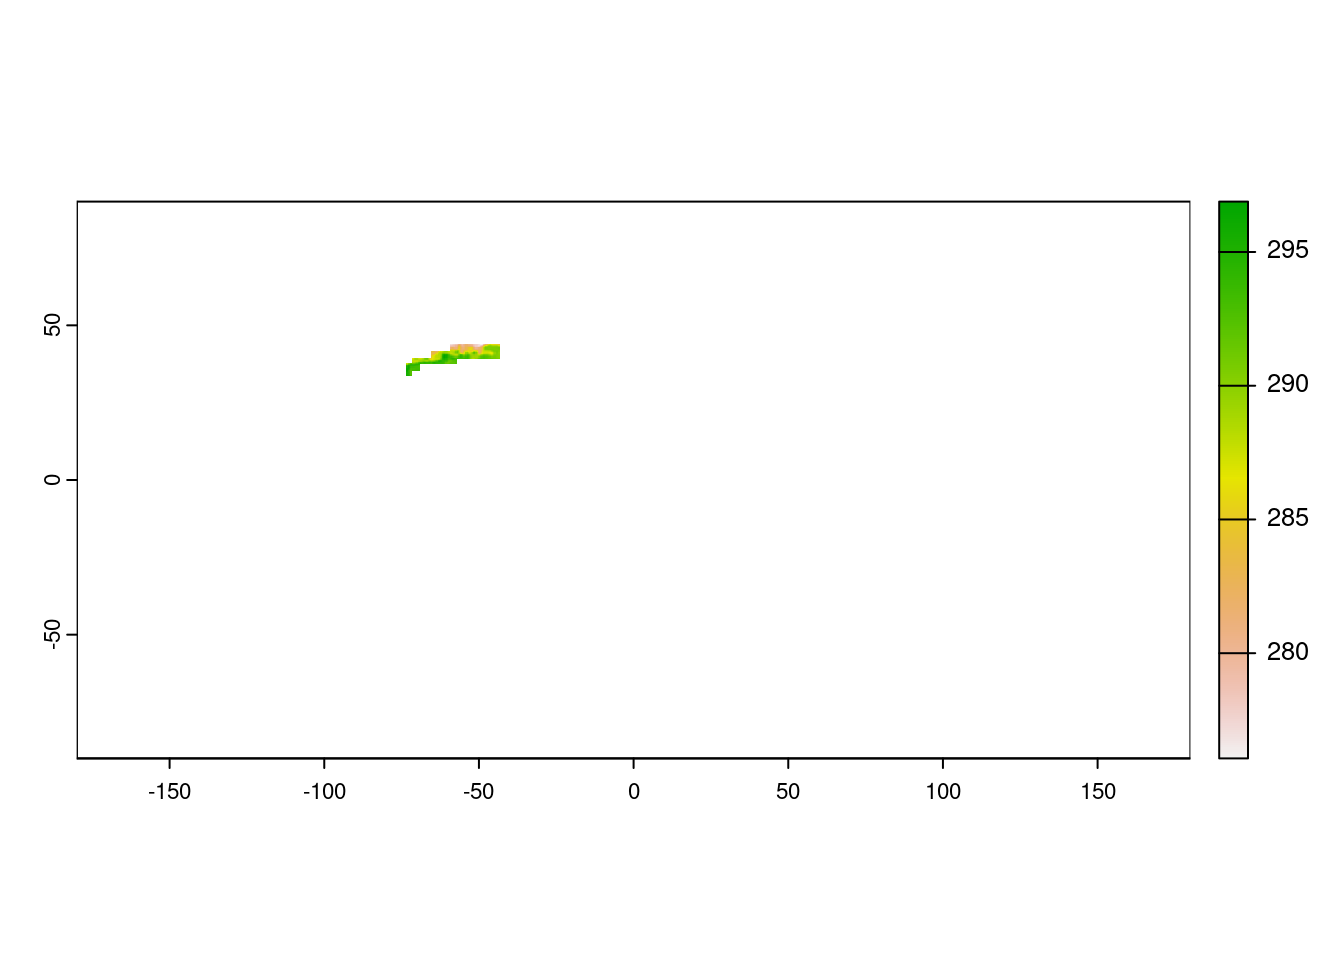
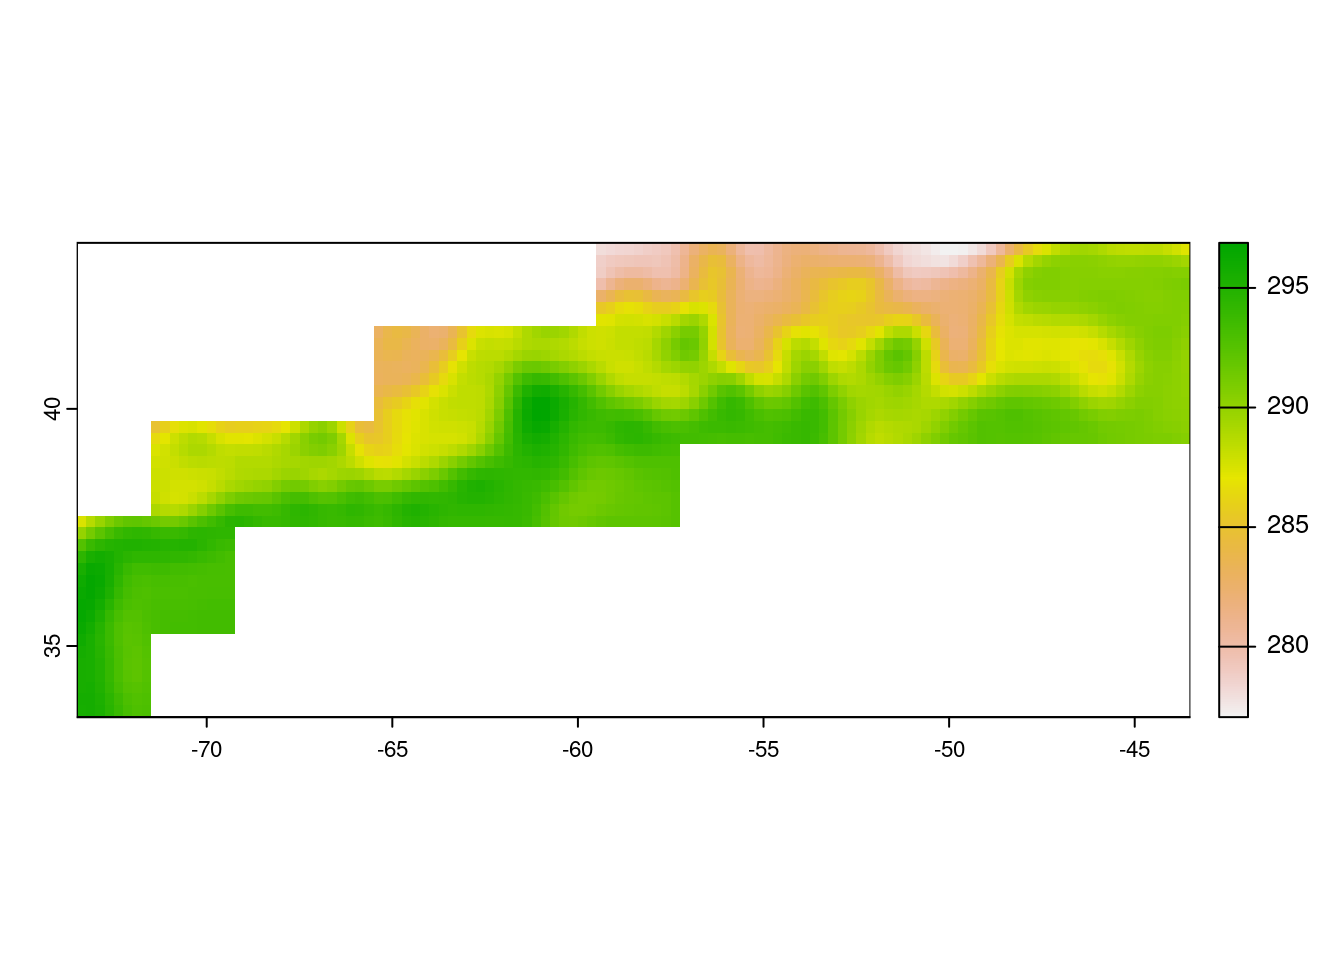
change the order to reduce the memory usage

diff --git a/docs/tutorials/r/3-extract-satellite-data-within-boundary.html b/docs/tutorials/r/3-extract-satellite-data-within-boundary.html
@@ -555,17 +555,19 @@ For this exercise, we will only use the boundary of one province, the Gulf Strea
 <span id="cb8-2"><a href="#cb8-2" aria-hidden="true" tabindex="-1"></a>ras <span class="ot">&lt;-</span> terra<span class="sc">::</span><span class="fu">rast</span>(results[<span class="dv">1</span>], <span class="at">vsi =</span> <span class="cn">TRUE</span>)</span>
 <span id="cb8-3"><a href="#cb8-3" aria-hidden="true" tabindex="-1"></a></span>
 <span id="cb8-4"><a href="#cb8-4" aria-hidden="true" tabindex="-1"></a><span class="co"># Extract SST from the multi-layer raster data</span></span>
-<span id="cb8-5"><a href="#cb8-5" aria-hidden="true" tabindex="-1"></a>ras_sst <span class="ot">&lt;-</span> ras[[<span class="st">"analysed_sst"</span>]]</span>
-<span id="cb8-6"><a href="#cb8-6" aria-hidden="true" tabindex="-1"></a></span>
-<span id="cb8-7"><a href="#cb8-7" aria-hidden="true" tabindex="-1"></a><span class="co"># Vectorize shapes</span></span>
-<span id="cb8-8"><a href="#cb8-8" aria-hidden="true" tabindex="-1"></a>shp <span class="ot">&lt;-</span> <span class="fu">vect</span>(shapes)</span>
-<span id="cb8-9"><a href="#cb8-9" aria-hidden="true" tabindex="-1"></a></span>
-<span id="cb8-10"><a href="#cb8-10" aria-hidden="true" tabindex="-1"></a><span class="co"># Get boundaries for GFST</span></span>
-<span id="cb8-11"><a href="#cb8-11" aria-hidden="true" tabindex="-1"></a>GFST <span class="ot">&lt;-</span> shp[shp<span class="sc">$</span>ProvCode <span class="sc">==</span> <span class="st">"GFST"</span>,]</span></code><button title="Copy to Clipboard" class="code-copy-button"><i class="bi"></i></button></pre></div>
+<span id="cb8-5"><a href="#cb8-5" aria-hidden="true" tabindex="-1"></a>ras_sst <span class="ot">&lt;-</span> ras[[<span class="st">"analysed_sst"</span>]]</span></code><button title="Copy to Clipboard" class="code-copy-button"><i class="bi"></i></button></pre></div>
+</div>
+<p>Convert shape to SpatVector.</p>
+<div class="cell">
+<div class="sourceCode cell-code" id="cb9"><pre class="sourceCode r code-with-copy"><code class="sourceCode r"><span id="cb9-1"><a href="#cb9-1" aria-hidden="true" tabindex="-1"></a><span class="co"># Vectorize shapes</span></span>
+<span id="cb9-2"><a href="#cb9-2" aria-hidden="true" tabindex="-1"></a>shp <span class="ot">&lt;-</span> terra<span class="sc">::</span><span class="fu">vect</span>(shapes)</span>
+<span id="cb9-3"><a href="#cb9-3" aria-hidden="true" tabindex="-1"></a></span>
+<span id="cb9-4"><a href="#cb9-4" aria-hidden="true" tabindex="-1"></a><span class="co"># Get boundaries for GFST</span></span>
+<span id="cb9-5"><a href="#cb9-5" aria-hidden="true" tabindex="-1"></a>GFST <span class="ot">&lt;-</span> shp[shp<span class="sc">$</span>ProvCode <span class="sc">==</span> <span class="st">"GFST"</span>,]</span></code><button title="Copy to Clipboard" class="code-copy-button"><i class="bi"></i></button></pre></div>
 </div>
 <p>Plot the SST data.</p>
 <div class="cell">
-<div class="sourceCode cell-code" id="cb9"><pre class="sourceCode r code-with-copy"><code class="sourceCode r"><span id="cb9-1"><a href="#cb9-1" aria-hidden="true" tabindex="-1"></a><span class="fu">plot</span>(ras_sst)</span></code><button title="Copy to Clipboard" class="code-copy-button"><i class="bi"></i></button></pre></div>
+<div class="sourceCode cell-code" id="cb10"><pre class="sourceCode r code-with-copy"><code class="sourceCode r"><span id="cb10-1"><a href="#cb10-1" aria-hidden="true" tabindex="-1"></a><span class="fu">plot</span>(ras_sst)</span></code><button title="Copy to Clipboard" class="code-copy-button"><i class="bi"></i></button></pre></div>
 <div class="cell-output-display">
 <div>
 <figure class="figure">
@@ -576,7 +578,7 @@ For this exercise, we will only use the boundary of one province, the Gulf Strea
 </div>
 <p>Plot GFST boundaries from shapefile.</p>
 <div class="cell">
-<div class="sourceCode cell-code" id="cb10"><pre class="sourceCode r code-with-copy"><code class="sourceCode r"><span id="cb10-1"><a href="#cb10-1" aria-hidden="true" tabindex="-1"></a><span class="fu">plot</span>(GFST,<span class="at">col=</span><span class="st">'red'</span>)</span></code><button title="Copy to Clipboard" class="code-copy-button"><i class="bi"></i></button></pre></div>
+<div class="sourceCode cell-code" id="cb11"><pre class="sourceCode r code-with-copy"><code class="sourceCode r"><span id="cb11-1"><a href="#cb11-1" aria-hidden="true" tabindex="-1"></a><span class="fu">plot</span>(GFST,<span class="at">col=</span><span class="st">'red'</span>)</span></code><button title="Copy to Clipboard" class="code-copy-button"><i class="bi"></i></button></pre></div>
 <div class="cell-output-display">
 <div>
 <figure class="figure">
@@ -587,10 +589,10 @@ For this exercise, we will only use the boundary of one province, the Gulf Strea
 </div>
 <p>Mask SST with the GFST boundaries and plot.</p>
 <div class="cell">
-<div class="sourceCode cell-code" id="cb11"><pre class="sourceCode r code-with-copy"><code class="sourceCode r"><span id="cb11-1"><a href="#cb11-1" aria-hidden="true" tabindex="-1"></a>masked_rc <span class="ot">&lt;-</span> <span class="fu">mask</span>(ras_sst, GFST)</span>
-<span id="cb11-2"><a href="#cb11-2" aria-hidden="true" tabindex="-1"></a></span>
-<span id="cb11-3"><a href="#cb11-3" aria-hidden="true" tabindex="-1"></a><span class="co"># Visualize the SST in GFST Province and crop to the GFST extent</span></span>
-<span id="cb11-4"><a href="#cb11-4" aria-hidden="true" tabindex="-1"></a><span class="fu">plot</span>(masked_rc, <span class="at">ext =</span> GFST)</span></code><button title="Copy to Clipboard" class="code-copy-button"><i class="bi"></i></button></pre></div>
+<div class="sourceCode cell-code" id="cb12"><pre class="sourceCode r code-with-copy"><code class="sourceCode r"><span id="cb12-1"><a href="#cb12-1" aria-hidden="true" tabindex="-1"></a>masked_rc <span class="ot">&lt;-</span> <span class="fu">mask</span>(ras_sst, GFST)</span>
+<span id="cb12-2"><a href="#cb12-2" aria-hidden="true" tabindex="-1"></a></span>
+<span id="cb12-3"><a href="#cb12-3" aria-hidden="true" tabindex="-1"></a><span class="co"># Visualize the SST in GFST Province and crop to the GFST extent</span></span>
+<span id="cb12-4"><a href="#cb12-4" aria-hidden="true" tabindex="-1"></a><span class="fu">plot</span>(masked_rc, <span class="at">ext =</span> GFST)</span></code><button title="Copy to Clipboard" class="code-copy-button"><i class="bi"></i></button></pre></div>
 <div class="cell-output-display">
 <div>
 <figure class="figure">
@@ -605,23 +607,30 @@ For this exercise, we will only use the boundary of one province, the Gulf Strea
 <p>We will construct a data cube to compute monthly average for sea surface temperature data within the boundary. To minimize data loading times, the first 10 results, which correspond to approximately two months of data, will be used for this exercise.</p>
 <p>Select the first 10 SST results (end of January and beginning of February).</p>
 <div class="cell">
-<div class="sourceCode cell-code" id="cb12"><pre class="sourceCode r code-with-copy"><code class="sourceCode r"><span id="cb12-1"><a href="#cb12-1" aria-hidden="true" tabindex="-1"></a>ras_all <span class="ot">&lt;-</span> terra<span class="sc">::</span><span class="fu">rast</span>(results[<span class="fu">c</span>(<span class="dv">25</span><span class="sc">:</span><span class="dv">35</span>)], <span class="at">vsi =</span> <span class="cn">TRUE</span>)</span></code><button title="Copy to Clipboard" class="code-copy-button"><i class="bi"></i></button></pre></div>
+<div class="sourceCode cell-code" id="cb13"><pre class="sourceCode r code-with-copy"><code class="sourceCode r"><span id="cb13-1"><a href="#cb13-1" aria-hidden="true" tabindex="-1"></a>ras_all <span class="ot">&lt;-</span> terra<span class="sc">::</span><span class="fu">rast</span>(results[<span class="fu">c</span>(<span class="dv">25</span><span class="sc">:</span><span class="dv">35</span>)], <span class="at">vsi =</span> <span class="cn">TRUE</span>)</span></code><button title="Copy to Clipboard" class="code-copy-button"><i class="bi"></i></button></pre></div>
+</div>
+<p>Select SST data. The trim and mask operations are memory intensive and we want to select only the layer we will be working with.</p>
+<div class="cell">
+<div class="sourceCode cell-code" id="cb14"><pre class="sourceCode r code-with-copy"><code class="sourceCode r"><span id="cb14-1"><a href="#cb14-1" aria-hidden="true" tabindex="-1"></a>rc_sst <span class="ot">&lt;-</span> ras_all[<span class="st">"analysed_sst"</span>,]</span></code><button title="Copy to Clipboard" class="code-copy-button"><i class="bi"></i></button></pre></div>
+</div>
+<p>Crop to the GFST boundaries.</p>
+<div class="cell">
+<div class="sourceCode cell-code" id="cb15"><pre class="sourceCode r code-with-copy"><code class="sourceCode r"><span id="cb15-1"><a href="#cb15-1" aria-hidden="true" tabindex="-1"></a>rc_sst <span class="ot">&lt;-</span> terra<span class="sc">::</span><span class="fu">crop</span>(rc_sst, GFST)</span></code><button title="Copy to Clipboard" class="code-copy-button"><i class="bi"></i></button></pre></div>
 </div>
 <p>Trim the SST data to the boundaries of GFST.</p>
 <div class="cell">
-<div class="sourceCode cell-code" id="cb13"><pre class="sourceCode r code-with-copy"><code class="sourceCode r"><span id="cb13-1"><a href="#cb13-1" aria-hidden="true" tabindex="-1"></a>rc_all <span class="ot">&lt;-</span> terra<span class="sc">::</span><span class="fu">mask</span>(ras_all, GFST)</span></code><button title="Copy to Clipboard" class="code-copy-button"><i class="bi"></i></button></pre></div>
-</div>
-<p>Select SST data.</p>
-<div class="cell">
-<div class="sourceCode cell-code" id="cb14"><pre class="sourceCode r code-with-copy"><code class="sourceCode r"><span id="cb14-1"><a href="#cb14-1" aria-hidden="true" tabindex="-1"></a>rc_sst <span class="ot">&lt;-</span> rc_all[<span class="st">"analysed_sst"</span>, ]</span></code><button title="Copy to Clipboard" class="code-copy-button"><i class="bi"></i></button></pre></div>
+<div class="sourceCode cell-code" id="cb16"><pre class="sourceCode r code-with-copy"><code class="sourceCode r"><span id="cb16-1"><a href="#cb16-1" aria-hidden="true" tabindex="-1"></a>rc_sst <span class="ot">&lt;-</span> terra<span class="sc">::</span><span class="fu">mask</span>(rc_sst, GFST)</span></code><button title="Copy to Clipboard" class="code-copy-button"><i class="bi"></i></button></pre></div>
 </div>
 <p>Calculate mean SST over the entire time series and map it</p>
 <div class="cell">
-<div class="sourceCode cell-code" id="cb15"><pre class="sourceCode r code-with-copy"><code class="sourceCode r"><span id="cb15-1"><a href="#cb15-1" aria-hidden="true" tabindex="-1"></a><span class="co"># Compute mean over 12 time layers</span></span>
-<span id="cb15-2"><a href="#cb15-2" aria-hidden="true" tabindex="-1"></a>raster_mean <span class="ot">&lt;-</span> terra<span class="sc">::</span><span class="fu">mean</span>(rc_sst, <span class="at">na.rm=</span><span class="cn">TRUE</span>)</span>
-<span id="cb15-3"><a href="#cb15-3" aria-hidden="true" tabindex="-1"></a></span>
-<span id="cb15-4"><a href="#cb15-4" aria-hidden="true" tabindex="-1"></a><span class="co"># Map mean SST </span></span>
-<span id="cb15-5"><a href="#cb15-5" aria-hidden="true" tabindex="-1"></a><span class="fu">plot</span>(raster_mean)</span></code><button title="Copy to Clipboard" class="code-copy-button"><i class="bi"></i></button></pre></div>
+<div class="sourceCode cell-code" id="cb17"><pre class="sourceCode r code-with-copy"><code class="sourceCode r"><span id="cb17-1"><a href="#cb17-1" aria-hidden="true" tabindex="-1"></a><span class="co"># Compute mean over 12 time layers</span></span>
+<span id="cb17-2"><a href="#cb17-2" aria-hidden="true" tabindex="-1"></a>raster_mean <span class="ot">&lt;-</span> terra<span class="sc">::</span><span class="fu">mean</span>(rc_sst, <span class="at">na.rm=</span><span class="cn">TRUE</span>)</span>
+<span id="cb17-3"><a href="#cb17-3" aria-hidden="true" tabindex="-1"></a></span>
+<span id="cb17-4"><a href="#cb17-4" aria-hidden="true" tabindex="-1"></a><span class="co"># Map mean SST </span></span>
+<span id="cb17-5"><a href="#cb17-5" aria-hidden="true" tabindex="-1"></a><span class="fu">plot</span>(raster_mean)</span>
+<span id="cb17-6"><a href="#cb17-6" aria-hidden="true" tabindex="-1"></a></span>
+<span id="cb17-7"><a href="#cb17-7" aria-hidden="true" tabindex="-1"></a><span class="co"># Map only the GFST area</span></span>
+<span id="cb17-8"><a href="#cb17-8" aria-hidden="true" tabindex="-1"></a><span class="fu">plot</span>(terra<span class="sc">::</span><span class="fu">crop</span>(raster_mean, GFST))</span></code><button title="Copy to Clipboard" class="code-copy-button"><i class="bi"></i></button></pre></div>
 <div class="cell-output-display">
 <div>
 <figure class="figure">
@@ -629,51 +638,42 @@ For this exercise, we will only use the boundary of one province, the Gulf Strea
 </figure>
 </div>
 </div>
-<div class="sourceCode cell-code" id="cb16"><pre class="sourceCode r code-with-copy"><code class="sourceCode r"><span id="cb16-1"><a href="#cb16-1" aria-hidden="true" tabindex="-1"></a><span class="co"># Map only the GFST area</span></span>
-<span id="cb16-2"><a href="#cb16-2" aria-hidden="true" tabindex="-1"></a><span class="fu">plot</span>(terra<span class="sc">::</span><span class="fu">crop</span>(raster_mean, GFST))</span></code><button title="Copy to Clipboard" class="code-copy-button"><i class="bi"></i></button></pre></div>
-<div class="cell-output-display">
-<div>
-<figure class="figure">
-<p><img src="3-extract-satellite-data-within-boundary_files/figure-html/get_means-2.png" class="img-fluid figure-img" width="672"></p>
-</figure>
-</div>
-</div>
 </div>
 <p>Calculate monthly mean SST means across raster (lat, lon).</p>
 <div class="cell">
-<div class="sourceCode cell-code" id="cb17"><pre class="sourceCode r code-with-copy"><code class="sourceCode r"><span id="cb17-1"><a href="#cb17-1" aria-hidden="true" tabindex="-1"></a><span class="co"># Function to convert times to year-month format</span></span>
-<span id="cb17-2"><a href="#cb17-2" aria-hidden="true" tabindex="-1"></a>year_month <span class="ot">&lt;-</span> <span class="cf">function</span>(x) {</span>
-<span id="cb17-3"><a href="#cb17-3" aria-hidden="true" tabindex="-1"></a>  <span class="fu">format</span>(<span class="fu">as.Date</span>(<span class="fu">time</span>(x), <span class="at">format=</span><span class="st">"%Y-%m-%d"</span>), <span class="st">"%Y-%m"</span>)</span>
-<span id="cb17-4"><a href="#cb17-4" aria-hidden="true" tabindex="-1"></a>}</span>
-<span id="cb17-5"><a href="#cb17-5" aria-hidden="true" tabindex="-1"></a></span>
-<span id="cb17-6"><a href="#cb17-6" aria-hidden="true" tabindex="-1"></a><span class="co"># Format time to Year-month for monthly aggregation </span></span>
-<span id="cb17-7"><a href="#cb17-7" aria-hidden="true" tabindex="-1"></a>ym <span class="ot">&lt;-</span> <span class="fu">year_month</span>(rc_sst)</span>
-<span id="cb17-8"><a href="#cb17-8" aria-hidden="true" tabindex="-1"></a></span>
-<span id="cb17-9"><a href="#cb17-9" aria-hidden="true" tabindex="-1"></a><span class="co"># Compute raster mean grouped by Year-month</span></span>
-<span id="cb17-10"><a href="#cb17-10" aria-hidden="true" tabindex="-1"></a>monthly_mean_rast <span class="ot">&lt;-</span> terra<span class="sc">::</span><span class="fu">tapp</span>(rc_sst, ym, <span class="at">fun =</span> mean)</span>
-<span id="cb17-11"><a href="#cb17-11" aria-hidden="true" tabindex="-1"></a></span>
-<span id="cb17-12"><a href="#cb17-12" aria-hidden="true" tabindex="-1"></a><span class="co"># Compute mean across raster grouped by Year-month</span></span>
-<span id="cb17-13"><a href="#cb17-13" aria-hidden="true" tabindex="-1"></a>monthly_means <span class="ot">&lt;-</span> terra<span class="sc">::</span><span class="fu">global</span>(monthly_mean_rast, <span class="at">fun =</span> mean, <span class="at">na.rm=</span><span class="cn">TRUE</span>)</span></code><button title="Copy to Clipboard" class="code-copy-button"><i class="bi"></i></button></pre></div>
+<div class="sourceCode cell-code" id="cb18"><pre class="sourceCode r code-with-copy"><code class="sourceCode r"><span id="cb18-1"><a href="#cb18-1" aria-hidden="true" tabindex="-1"></a><span class="co"># Function to convert times to year-month format</span></span>
+<span id="cb18-2"><a href="#cb18-2" aria-hidden="true" tabindex="-1"></a>year_month <span class="ot">&lt;-</span> <span class="cf">function</span>(x) {</span>
+<span id="cb18-3"><a href="#cb18-3" aria-hidden="true" tabindex="-1"></a>  <span class="fu">format</span>(<span class="fu">as.Date</span>(<span class="fu">time</span>(x), <span class="at">format=</span><span class="st">"%Y-%m-%d"</span>), <span class="st">"%Y-%m"</span>)</span>
+<span id="cb18-4"><a href="#cb18-4" aria-hidden="true" tabindex="-1"></a>}</span>
+<span id="cb18-5"><a href="#cb18-5" aria-hidden="true" tabindex="-1"></a></span>
+<span id="cb18-6"><a href="#cb18-6" aria-hidden="true" tabindex="-1"></a><span class="co"># Format time to Year-month for monthly aggregation </span></span>
+<span id="cb18-7"><a href="#cb18-7" aria-hidden="true" tabindex="-1"></a>ym <span class="ot">&lt;-</span> <span class="fu">year_month</span>(rc_sst)</span>
+<span id="cb18-8"><a href="#cb18-8" aria-hidden="true" tabindex="-1"></a></span>
+<span id="cb18-9"><a href="#cb18-9" aria-hidden="true" tabindex="-1"></a><span class="co"># Compute raster mean grouped by Year-month</span></span>
+<span id="cb18-10"><a href="#cb18-10" aria-hidden="true" tabindex="-1"></a>monthly_mean_rast <span class="ot">&lt;-</span> terra<span class="sc">::</span><span class="fu">tapp</span>(rc_sst, ym, <span class="at">fun =</span> mean)</span>
+<span id="cb18-11"><a href="#cb18-11" aria-hidden="true" tabindex="-1"></a></span>
+<span id="cb18-12"><a href="#cb18-12" aria-hidden="true" tabindex="-1"></a><span class="co"># Compute mean across raster grouped by Year-month</span></span>
+<span id="cb18-13"><a href="#cb18-13" aria-hidden="true" tabindex="-1"></a>monthly_means <span class="ot">&lt;-</span> terra<span class="sc">::</span><span class="fu">global</span>(monthly_mean_rast, <span class="at">fun =</span> mean, <span class="at">na.rm=</span><span class="cn">TRUE</span>)</span></code><button title="Copy to Clipboard" class="code-copy-button"><i class="bi"></i></button></pre></div>
 </div>
 </section>
 <section id="convert-raster-into-data-frame" class="level2">
 <h2 class="anchored" data-anchor-id="convert-raster-into-data-frame">Convert raster into data frame</h2>
 <div class="cell">
-<div class="sourceCode cell-code" id="cb18"><pre class="sourceCode r code-with-copy"><code class="sourceCode r"><span id="cb18-1"><a href="#cb18-1" aria-hidden="true" tabindex="-1"></a><span class="co"># Convert raster into data.frame</span></span>
-<span id="cb18-2"><a href="#cb18-2" aria-hidden="true" tabindex="-1"></a>monthly_means_df <span class="ot">&lt;-</span> <span class="fu">as.data.frame</span>(monthly_means)</span>
-<span id="cb18-3"><a href="#cb18-3" aria-hidden="true" tabindex="-1"></a></span>
-<span id="cb18-4"><a href="#cb18-4" aria-hidden="true" tabindex="-1"></a><span class="co"># Convert year_month to a column</span></span>
-<span id="cb18-5"><a href="#cb18-5" aria-hidden="true" tabindex="-1"></a>monthly_means_df<span class="sc">$</span>year_month <span class="ot">&lt;-</span> <span class="fu">sub</span>(<span class="st">"X"</span>, <span class="st">""</span>, <span class="fu">rownames</span>(monthly_means_df))</span></code><button title="Copy to Clipboard" class="code-copy-button"><i class="bi"></i></button></pre></div>
+<div class="sourceCode cell-code" id="cb19"><pre class="sourceCode r code-with-copy"><code class="sourceCode r"><span id="cb19-1"><a href="#cb19-1" aria-hidden="true" tabindex="-1"></a><span class="co"># Convert raster into data.frame</span></span>
+<span id="cb19-2"><a href="#cb19-2" aria-hidden="true" tabindex="-1"></a>monthly_means_df <span class="ot">&lt;-</span> <span class="fu">as.data.frame</span>(monthly_means)</span>
+<span id="cb19-3"><a href="#cb19-3" aria-hidden="true" tabindex="-1"></a></span>
+<span id="cb19-4"><a href="#cb19-4" aria-hidden="true" tabindex="-1"></a><span class="co"># Convert year_month to a column</span></span>
+<span id="cb19-5"><a href="#cb19-5" aria-hidden="true" tabindex="-1"></a>monthly_means_df<span class="sc">$</span>year_month <span class="ot">&lt;-</span> <span class="fu">sub</span>(<span class="st">"X"</span>, <span class="st">""</span>, <span class="fu">rownames</span>(monthly_means_df))</span></code><button title="Copy to Clipboard" class="code-copy-button"><i class="bi"></i></button></pre></div>
 </div>
 </section>
 <section id="plot-monthly-mean-of-sea-surface-temperature-within-gfst-province" class="level2">
 <h2 class="anchored" data-anchor-id="plot-monthly-mean-of-sea-surface-temperature-within-gfst-province">Plot monthly mean of sea surface temperature within GFST province</h2>
 <div class="cell">
-<div class="sourceCode cell-code" id="cb19"><pre class="sourceCode r code-with-copy"><code class="sourceCode r"><span id="cb19-1"><a href="#cb19-1" aria-hidden="true" tabindex="-1"></a><span class="fu">ggplot</span>(<span class="at">data =</span> monthly_means_df, <span class="fu">aes</span>(<span class="at">x =</span> year_month, <span class="at">y =</span> mean, <span class="at">group =</span> <span class="dv">1</span>)) <span class="sc">+</span></span>
-<span id="cb19-2"><a href="#cb19-2" aria-hidden="true" tabindex="-1"></a>  <span class="fu">geom_line</span>() <span class="sc">+</span></span>
-<span id="cb19-3"><a href="#cb19-3" aria-hidden="true" tabindex="-1"></a>  <span class="fu">geom_point</span>() <span class="sc">+</span></span>
-<span id="cb19-4"><a href="#cb19-4" aria-hidden="true" tabindex="-1"></a>  <span class="fu">xlab</span>(<span class="st">"Year.Month"</span>) <span class="sc">+</span> </span>
-<span id="cb19-5"><a href="#cb19-5" aria-hidden="true" tabindex="-1"></a>  <span class="fu">ylab</span>(<span class="st">"Mean SST (F)"</span>)</span></code><button title="Copy to Clipboard" class="code-copy-button"><i class="bi"></i></button></pre></div>
+<div class="sourceCode cell-code" id="cb20"><pre class="sourceCode r code-with-copy"><code class="sourceCode r"><span id="cb20-1"><a href="#cb20-1" aria-hidden="true" tabindex="-1"></a><span class="fu">ggplot</span>(<span class="at">data =</span> monthly_means_df, <span class="fu">aes</span>(<span class="at">x =</span> year_month, <span class="at">y =</span> mean, <span class="at">group =</span> <span class="dv">1</span>)) <span class="sc">+</span></span>
+<span id="cb20-2"><a href="#cb20-2" aria-hidden="true" tabindex="-1"></a>  <span class="fu">geom_line</span>() <span class="sc">+</span></span>
+<span id="cb20-3"><a href="#cb20-3" aria-hidden="true" tabindex="-1"></a>  <span class="fu">geom_point</span>() <span class="sc">+</span></span>
+<span id="cb20-4"><a href="#cb20-4" aria-hidden="true" tabindex="-1"></a>  <span class="fu">xlab</span>(<span class="st">"Year.Month"</span>) <span class="sc">+</span> </span>
+<span id="cb20-5"><a href="#cb20-5" aria-hidden="true" tabindex="-1"></a>  <span class="fu">ylab</span>(<span class="st">"Mean SST (F)"</span>)</span></code><button title="Copy to Clipboard" class="code-copy-button"><i class="bi"></i></button></pre></div>
 <div class="cell-output-display">
 <div>
 <figure class="figure">
@@ -699,7 +699,7 @@ Troubleshooting
 <blockquote class="blockquote">
 <p>Warning: Opening a /vsi file with the netCDF driver requires Linux userfaultfd to be available. Or you may set the GDAL_SKIP=netCDF configuration option to force the use of the HDF5 driver. (GDAL error 1)Error: [rast] file does not exist: /vsicurl/https://archive.podaac.earthdata.nasa.gov/podaac-ops-cumulus-protected/AVHRR_OI-NCEI-L4-GLOB-v2.1/20191231120000-NCEI-L4_GHRSST-SSTblend-AVHRR_OI-GLOB-v02.0-fv02.1.nc</p>
 </blockquote>
-<p>[insert solve]</p>
+<p>Then go back and run the authentication code at the top.</p>
 </div>
 </div>
 
